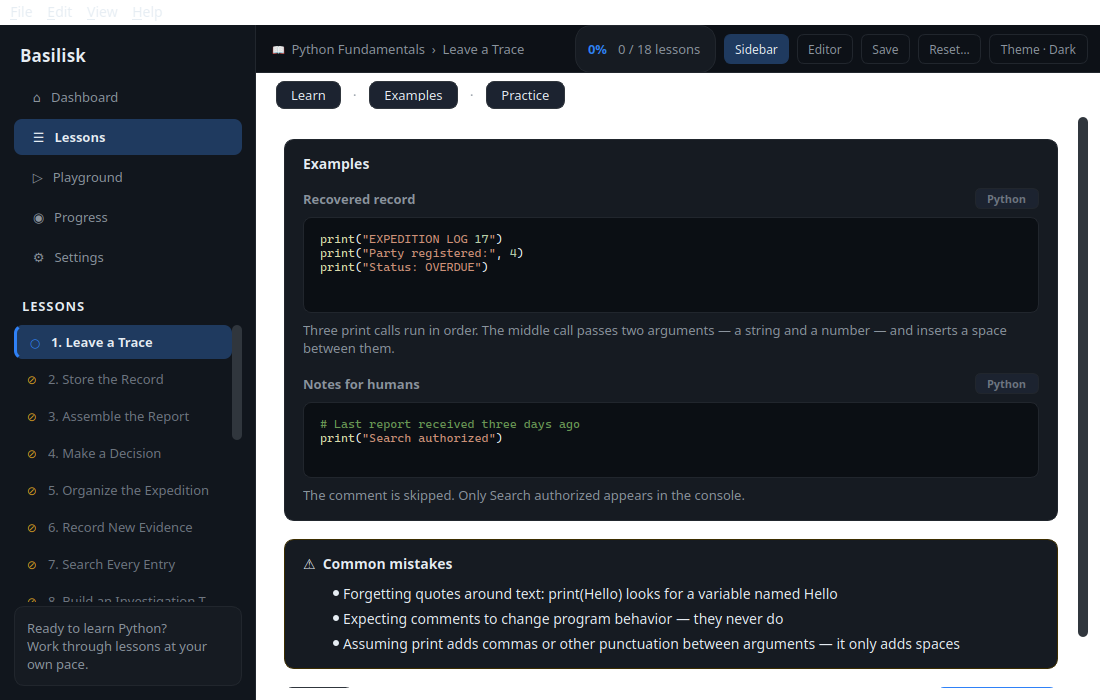
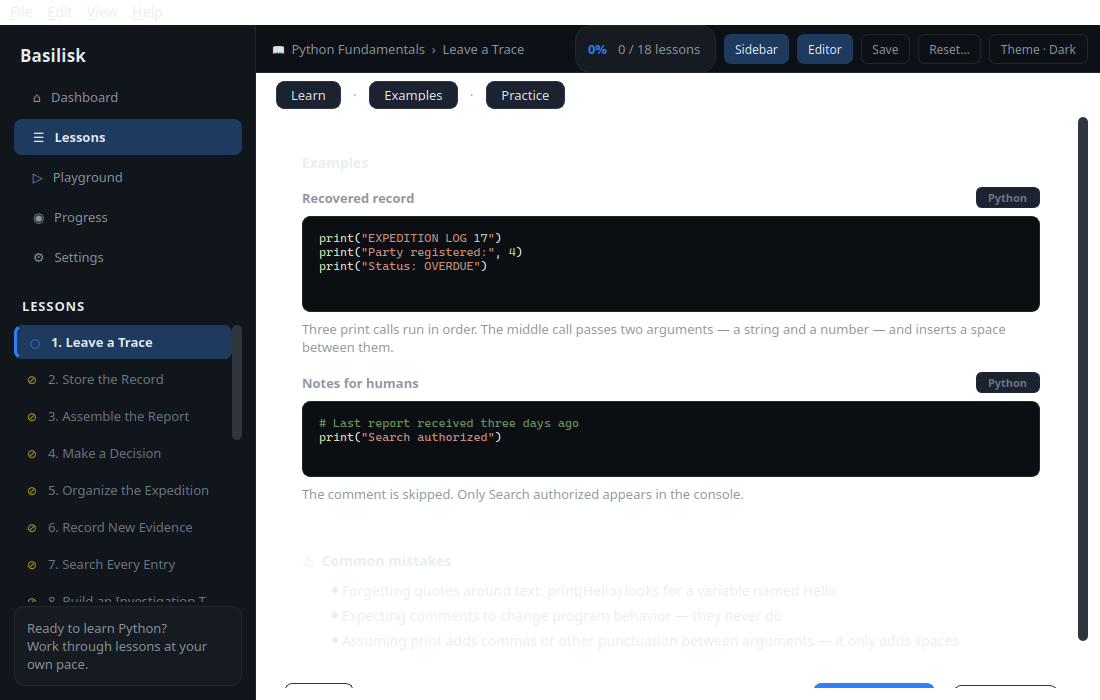
ui: flatten Learn/Examples reading surfaces (no heavy cards); restore prev/next lesson controls; remember per-lesson active exercise; fix Edit menu enablement for QPlainTextEdit/QLineEdit with app-wide focus tracking; keep Editor toggle check reflecting prefs while disabled on reading stages; expand

diff --git a/app/widgets/lesson_content.py b/app/widgets/lesson_content.py
@@ -96,6 +96,10 @@ class ConceptCard(QFrame):
         )
         self._body.setText(f"<ul style='margin:0; padding-left:18px;'>{lines}</ul>")
 
+    def set_reading_flat(self, flat: bool) -> None:
+        # Remove heavy card chrome for reading surfaces
+        self.setObjectName("PanelSection" if flat else "ConceptCard")
+
 
 class ExplanationCard(QFrame):
     def __init__(self, parent: QWidget | None = None) -> None:
@@ -145,6 +149,9 @@ class ExplanationCard(QFrame):
             inner.addWidget(body)
             self._host.addWidget(block)
 
+    def set_reading_flat(self, flat: bool) -> None:
+        self.setObjectName("PanelSection" if flat else "Card")
+
 
 class MistakesCard(QFrame):
     def __init__(self, parent: QWidget | None = None) -> None:
@@ -173,6 +180,9 @@ class MistakesCard(QFrame):
             f"<li style='margin:5px 0;'>{_escape(item)}</li>" for item in mistakes
         )
         self._body.setText(f"<ul style='margin:0; padding-left:18px;'>{lines}</ul>")
+
+    def set_reading_flat(self, flat: bool) -> None:
+        self.setObjectName("PanelSection" if flat else "MistakesCard")
 
 
 class ExampleBlock(QFrame):
@@ -250,6 +260,9 @@ class ExampleSection(QFrame):
 
         for ex in examples:
             self._host.addWidget(ExampleBlock(ex, theme))
+
+    def set_reading_flat(self, flat: bool) -> None:
+        self.setObjectName("PanelSection" if flat else "Card")
 
 
 class ExerciseCard(QFrame):
@@ -451,17 +464,29 @@ class LessonContent(QWidget):
         self._intro.setObjectName("LeadText")
         learn_l.addWidget(self._intro)
         self._explanation = ExplanationCard()
+        self._explanation.set_reading_flat(True)
         learn_l.addWidget(self._explanation)
         self._concepts = ConceptCard()
+        self._concepts.set_reading_flat(True)
         learn_l.addWidget(self._concepts)
         # primary action
         lr_nav = QHBoxLayout()
+        self._prev_lesson_lrn = QPushButton("‹ Previous lesson")
+        self._prev_lesson_lrn.setObjectName("GhostButton")
+        self._prev_lesson_lrn.setFixedHeight(32)
+        self._prev_lesson_lrn.clicked.connect(self.prevLesson.emit)
+        lr_nav.addWidget(self._prev_lesson_lrn)
         lr_nav.addStretch(1)
         self._to_examples = QPushButton("Next: Examples →")
         self._to_examples.setObjectName("PrimaryButton")
         self._to_examples.setFixedHeight(36)
         self._to_examples.clicked.connect(lambda: self.set_stage("examples"))
         lr_nav.addWidget(self._to_examples)
+        self._next_lesson_lrn = QPushButton("Next lesson ›")
+        self._next_lesson_lrn.setObjectName("GhostButton")
+        self._next_lesson_lrn.setFixedHeight(32)
+        self._next_lesson_lrn.clicked.connect(self.nextLesson.emit)
+        lr_nav.addWidget(self._next_lesson_lrn)
         learn_l.addLayout(lr_nav)
         learn_l.addStretch(1)
         self._learn_scroll.setWidget(learn_body)
@@ -477,8 +502,10 @@ class LessonContent(QWidget):
         ex_l.setContentsMargins(28, 22, 20, 20)
         ex_l.setSpacing(18)
         self._examples = ExampleSection()
+        self._examples.set_reading_flat(True)
         ex_l.addWidget(self._examples)
         self._mistakes = MistakesCard()
+        self._mistakes.set_reading_flat(True)
         ex_l.addWidget(self._mistakes)
         ex_nav = QHBoxLayout()
         self._back_to_learn = QPushButton("← Back")
@@ -492,6 +519,11 @@ class LessonContent(QWidget):
         self._start_practice.setFixedHeight(36)
         self._start_practice.clicked.connect(lambda: self.set_stage("practice"))
         ex_nav.addWidget(self._start_practice)
+        self._next_lesson_ex = QPushButton("Next lesson ›")
+        self._next_lesson_ex.setObjectName("GhostButton")
+        self._next_lesson_ex.setFixedHeight(32)
+        self._next_lesson_ex.clicked.connect(self.nextLesson.emit)
+        ex_nav.addWidget(self._next_lesson_ex)
         ex_l.addLayout(ex_nav)
         ex_l.addStretch(1)
         self._examples_scroll.setWidget(ex_body)
@@ -510,6 +542,19 @@ class LessonContent(QWidget):
         self._exercise.prevExercise.connect(self.prevExercise.emit)
         self._exercise.nextExercise.connect(self.nextExercise.emit)
         pr_l.addWidget(self._exercise)
+        pr_nav = QHBoxLayout()
+        self._prev_lesson_pr = QPushButton("‹ Previous lesson")
+        self._prev_lesson_pr.setObjectName("GhostButton")
+        self._prev_lesson_pr.setFixedHeight(32)
+        self._prev_lesson_pr.clicked.connect(self.prevLesson.emit)
+        pr_nav.addWidget(self._prev_lesson_pr)
+        pr_nav.addStretch(1)
+        self._next_lesson_pr = QPushButton("Next lesson ›")
+        self._next_lesson_pr.setObjectName("GhostButton")
+        self._next_lesson_pr.setFixedHeight(32)
+        self._next_lesson_pr.clicked.connect(self.nextLesson.emit)
+        pr_nav.addWidget(self._next_lesson_pr)
+        pr_l.addLayout(pr_nav)
         pr_l.addStretch(1)
         self._practice_scroll.setWidget(pr_body)
         self._stack.addWidget(self._practice_scroll)
@@ -542,7 +587,12 @@ class LessonContent(QWidget):
         self._mistakes.set_mistakes(list(lesson.common_mistakes))
         total = len(lesson.exercises)
         self._exercise.set_exercise(exercise, index=exercise_index, total=total)
-        # stage-specific nav buttons are updated by set_stage()
+        # prev/next lesson enabled state
+        self._prev_lesson_lrn.setEnabled(prev_ok)
+        self._next_lesson_lrn.setEnabled(next_ok)
+        self._next_lesson_ex.setEnabled(next_ok)
+        self._prev_lesson_pr.setEnabled(prev_ok)
+        self._next_lesson_pr.setEnabled(next_ok)
 
     # --- stages ---------------------------------------------------------------
     def set_stage(self, stage: str) -> None:

diff --git a/app/course_app.py b/app/course_app.py
@@ -73,6 +73,7 @@ class CourseApp(QMainWindow):
         self._editor_visible = self.prefs_store.prefs.editor_visible
         self._jobs = AsyncJobHost(self)
         self._lesson_stage: dict[str, str] = {}
+        self._lesson_ex_index: dict[str, int] = {}
 
         self.setWindowTitle(WINDOW_TITLE)
         self.resize(1400, 900)
@@ -259,6 +260,13 @@ class CourseApp(QMainWindow):
         self.actionViewSidebar.setChecked(self._sidebar_visible)
         self.actionViewEditor.setChecked(self._editor_visible)
         self._update_edit_actions_enabled()
+        # Track focus changes globally to keep Edit actions current
+        app = QApplication.instance()
+        if app is not None:
+            try:
+                app.focusChanged.connect(lambda *_: self._update_edit_actions_enabled())
+            except Exception:
+                pass
 
     # --- theme / panels -----------------------------------------------------
 
@@ -386,13 +394,16 @@ class CourseApp(QMainWindow):
         self._show_lesson(lesson)
         self._on_nav("lessons")
 
-    def _show_lesson(self, lesson: Lesson, exercise_index: int = 0) -> None:
+    def _show_lesson(self, lesson: Lesson, exercise_index: int | None = None) -> None:
         self._persist_current_draft()
         self._current_lesson = lesson
         self.lessons_page.lesson = lesson  # smoke compat
         self.controller.progress.data.current_lesson_id = lesson.id
         self.controller.progress.save()
+        if exercise_index is None:
+            exercise_index = self._lesson_ex_index.get(lesson.id, 0)
         self._exercise_index = max(0, min(exercise_index, max(0, len(lesson.exercises) - 1)))
+        self._lesson_ex_index[lesson.id] = self._exercise_index
         exercise = lesson.exercises[self._exercise_index] if lesson.exercises else None
 
         prev_ok = self.controller.catalog.previous(lesson.id) is not None
@@ -741,11 +752,20 @@ class CourseApp(QMainWindow):
         # Hide IDE temporarily without overwriting preference
         if is_reading:
             self.lessons_page.set_editor_visible(False)
-            self.top_bar.set_editor_visible(False)
+            # Keep UI controls reflecting the saved preference while disabled
+            self.top_bar.set_editor_visible(self._editor_visible)
+            if hasattr(self, "actionViewEditor"):
+                self.actionViewEditor.blockSignals(True)
+                self.actionViewEditor.setChecked(self._editor_visible)
+                self.actionViewEditor.blockSignals(False)
         else:
             # Restore preference-based visibility
             self.lessons_page.set_editor_visible(self._editor_visible)
             self.top_bar.set_editor_visible(self._editor_visible)
+            if hasattr(self, "actionViewEditor"):
+                self.actionViewEditor.blockSignals(True)
+                self.actionViewEditor.setChecked(self._editor_visible)
+                self.actionViewEditor.blockSignals(False)
 
     # --- Edit menu routing ---------------------------------------------------
     def _focused_text_widget(self):
@@ -770,13 +790,45 @@ class CourseApp(QMainWindow):
             return not self._is_read_only(w) and hasattr(w, "paste")
 
     def _update_edit_actions_enabled(self) -> None:
+        from PySide6.QtWidgets import QPlainTextEdit, QTextEdit, QLineEdit
         w = self._focused_text_widget()
-        undo_ok = hasattr(w, "undo")
-        redo_ok = hasattr(w, "redo")
-        cut_ok = hasattr(w, "cut") and not self._is_read_only(w) and self._has_selection(w)
-        copy_ok = hasattr(w, "copy") and (self._has_selection(w) or getattr(w, "isReadOnly", lambda: False)())
-        paste_ok = hasattr(w, "paste") and not self._is_read_only(w) and self._can_paste(w)
-        select_all_ok = hasattr(w, "selectAll")
+        undo_ok = redo_ok = cut_ok = copy_ok = paste_ok = select_all_ok = False
+        if isinstance(w, (QPlainTextEdit, QTextEdit)):
+            is_ro = w.isReadOnly()
+            try:
+                doc = w.document()
+                undo_ok = bool(doc.isUndoAvailable())
+                redo_ok = bool(doc.isRedoAvailable())
+            except Exception:
+                undo_ok = redo_ok = not is_ro
+            try:
+                has_sel = w.textCursor().hasSelection()
+            except Exception:
+                has_sel = self._has_selection(w)
+            cut_ok = (not is_ro) and has_sel
+            copy_ok = has_sel or is_ro
+            from PySide6.QtGui import QGuiApplication
+            cb = QGuiApplication.clipboard()
+            paste_ok = (not is_ro) and bool(getattr(cb, "text")())
+            select_all_ok = True
+        elif isinstance(w, QLineEdit):
+            is_ro = w.isReadOnly()
+            has_sel = w.hasSelectedText()
+            undo_ok = not is_ro
+            redo_ok = not is_ro
+            cut_ok = (not is_ro) and has_sel
+            copy_ok = has_sel or is_ro
+            from PySide6.QtGui import QGuiApplication
+            cb = QGuiApplication.clipboard()
+            paste_ok = (not is_ro) and bool(getattr(cb, "text")())
+            select_all_ok = True
+        else:
+            undo_ok = hasattr(w, "undo")
+            redo_ok = hasattr(w, "redo")
+            cut_ok = hasattr(w, "cut") and not self._is_read_only(w) and self._has_selection(w)
+            copy_ok = hasattr(w, "copy") and (self._has_selection(w) or getattr(w, "isReadOnly", lambda: False)())
+            paste_ok = hasattr(w, "paste") and not self._is_read_only(w) and self._can_paste(w)
+            select_all_ok = hasattr(w, "selectAll")
         for action, ok in (
             (getattr(self, "actionEditUndo", None), undo_ok),
             (getattr(self, "actionEditRedo", None), redo_ok),

diff --git a/tests/test_lesson_stages.py b/tests/test_lesson_stages.py
@@ -70,6 +70,17 @@ class LessonStagesTests(unittest.TestCase):
         self.assertTrue(content._exercise.isVisible())
         course.close()
 
+    def test_back_and_forth_through_all_stages(self) -> None:
+        course = self._new_course()
+        content = course.lessons_page.content
+        for stage in ("learn", "examples", "practice", "examples", "learn"):
+            content.set_stage(stage)
+            self.app.processEvents()
+        # back on learn, ide still hidden but pref unchanged
+        self.assertFalse(course.lessons_page.ide.isVisible())
+        self.assertEqual(course.prefs_store.prefs.editor_visible, course._editor_visible)
+        course.close()
+
     def test_learn_examples_do_not_change_editor_preference(self) -> None:
         course = self._new_course()
         before = course.prefs_store.prefs.editor_visible
@@ -92,6 +103,43 @@ class LessonStagesTests(unittest.TestCase):
         # Should still be in Examples
         self.assertFalse(course.lessons_page.ide.isVisible())
         self.assertTrue(course.lessons_page.content._examples.isVisible())
+        course.close()
+
+    def test_active_exercise_persists_in_session(self) -> None:
+        course = self._new_course()
+        lesson = course.controller.current_lesson()
+        assert lesson is not None
+        # move to last exercise
+        last_index = len(lesson.exercises) - 1
+        course._show_lesson(lesson, last_index)
+        self.app.processEvents()
+        # navigate away and back; still on last exercise
+        course._on_nav("dashboard")
+        self.app.processEvents()
+        course._on_nav("lessons")
+        self.app.processEvents()
+        # Check exercise meta shows last index (1-based)
+        label = course.lessons_page.content._exercise._ex_meta.text()
+        self.assertIn(f"{last_index + 1}", label)
+        course.close()
+
+    def test_view_menu_editor_state_reflects_prefs_on_reading_stage(self) -> None:
+        course = self._new_course()
+        content = course.lessons_page.content
+        # Ensure pref is True
+        course.prefs_store.update(editor_visible=True)
+        course._editor_visible = True
+        content.set_stage("learn")
+        self.app.processEvents()
+        # Action disabled but check reflects pref
+        act = course.findChild(QAction, "actionViewEditor")
+        self.assertIsNotNone(act)
+        assert act is not None
+        self.assertFalse(act.isEnabled())
+        self.assertTrue(act.isChecked())
+        # Toolbar reflects pref while IDE is hidden
+        # IDE hidden:
+        self.assertFalse(course.lessons_page.ide.isVisible())
         course.close()
 
 
